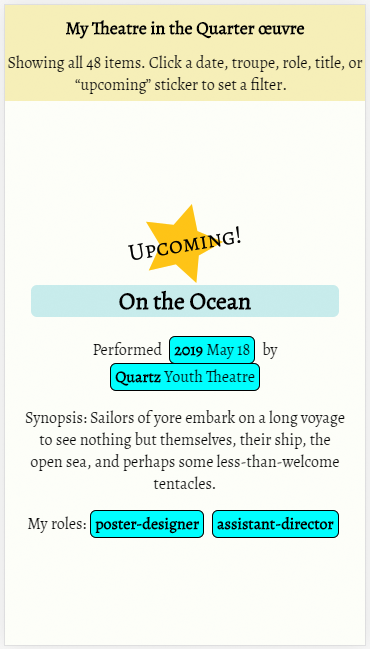
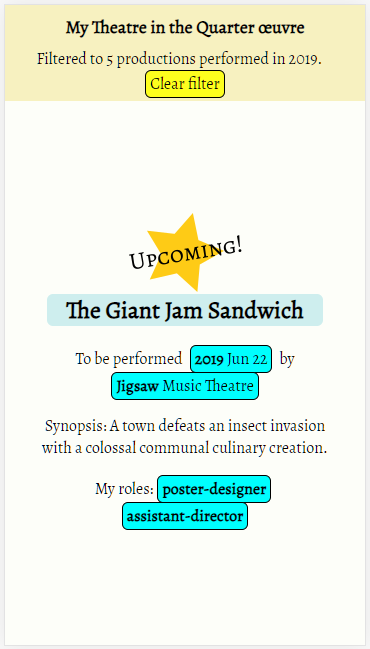
Changed tiq-oeuvre.png

Changed region(s): [[0.0595, 0.3082, 0.9216, 0.832], [0.0297, 0.0308, 0.9811, 0.1541]]

diff --git a/tiq.html b/tiq.html
@@ -87,7 +87,7 @@
                     such as <span class="highlight">self-confidence</span>, <span class="highlight">leadership</span>, and <span class="highlight">teamwork</span>.
                 </p>
                 <p>
-                    Up next with TiQ is &ldquo;<a href="https://www.duncanritchie.co.uk/tiq-oeuvre/?slug=on-the-ocean" title="My Theatre in the Quarter &oelig;uvre">On the Ocean</a>&rdquo;, to be performed on the streets of Chester on Saturday May 11th.
+                    Up next with TiQ is &ldquo;<a href="https://www.duncanritchie.co.uk/tiq-oeuvre/?slug=songs-of-the-sea" title="My Theatre in the Quarter &oelig;uvre">Songs of the Sea</a>&rdquo;, to be performed on the streets of Chester on Saturday May 11th.
                 </p>
                 <p>
                     I have so far designed <a href="https://www.duncanritchie.co.uk/tiq-oeuvre/?role=poster-designer" title="My Theatre in the Quarter &oelig;uvre">26 posters</a>
@@ -96,7 +96,7 @@
                      <a href="https://www.duncanritchie.co.uk/tiq-oeuvre/?role=lyricist" title="My Theatre in the Quarter &oelig;uvre">19 songs</a>.
                 </p>
                 <p>
-                    I&rsquo;ve volunteered with TiQ since 2012, but I was a member of their children&rsquo;s group Jigsaw Music Theatre for several years prior. 
+                    I&rsquo;ve volunteered with TiQ <span class="highlight">since 2012</span>, but I was a member of their children&rsquo;s group Jigsaw Music Theatre for several years prior. 
                     For the full list of shows I&rsquo;ve done with TiQ, see <a href="https://www.duncanritchie.co.uk/tiq-oeuvre/" title="My Theatre in the Quarter &oelig;uvre">my TiQ &oelig;uvre</a>. 
                 </p>
             </div>
